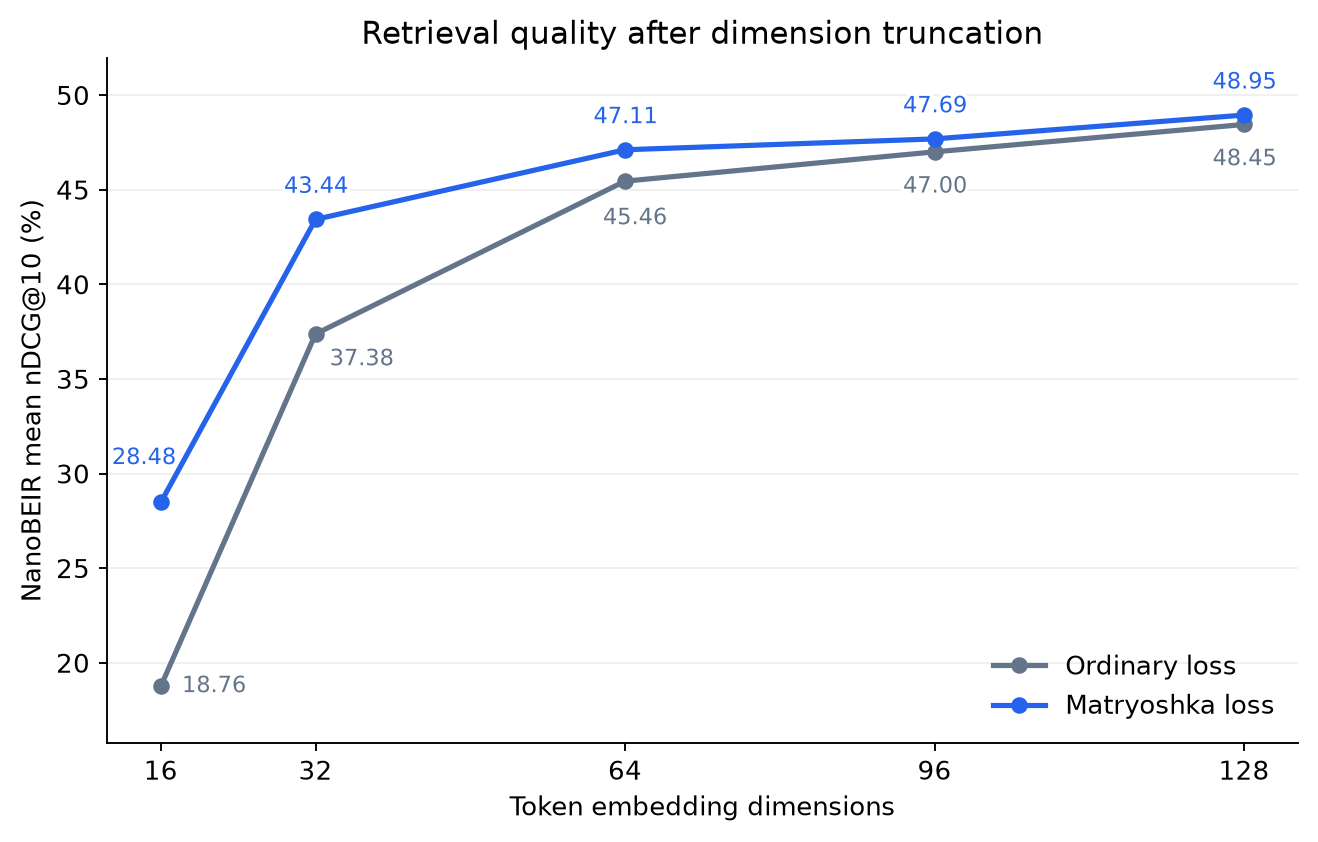
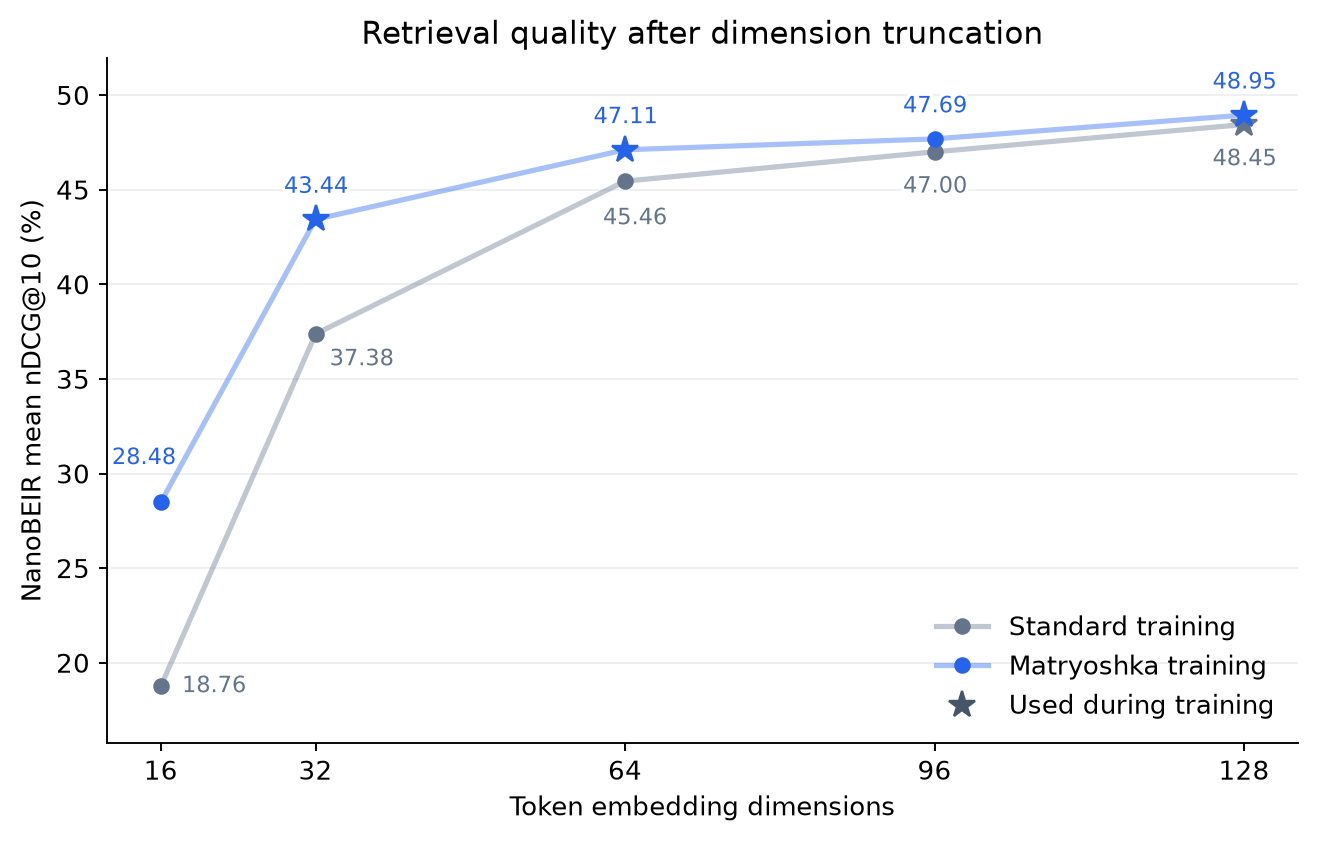
Use proportional pooling training and refine compression guides

diff --git a/examples/multi_vector_encoder/training/token_pooling/evaluate_token_pooling.py b/examples/multi_vector_encoder/training/token_pooling/evaluate_token_pooling.py
@@ -30,6 +30,11 @@ def main():
         "max_tokens_16": HierarchicalTokenPooling(max_tokens=16),
         "max_tokens_8": HierarchicalTokenPooling(max_tokens=8),
         "max_tokens_4": HierarchicalTokenPooling(max_tokens=4),
+        "pool_factor_2": HierarchicalTokenPooling(pool_factor=2),
+        "pool_factor_3": HierarchicalTokenPooling(pool_factor=3),
+        "pool_factor_4": HierarchicalTokenPooling(pool_factor=4),
+        "pool_factor_5": HierarchicalTokenPooling(pool_factor=5),
+        "pool_factor_6": HierarchicalTokenPooling(pool_factor=6),
     }
 
     scores = {}

diff --git a/examples/multi_vector_encoder/training/token_pooling/training_cached_contrastive.py b/examples/multi_vector_encoder/training/token_pooling/training_cached_contrastive.py
@@ -40,7 +40,7 @@ def main():
     dataset = dataset.select(range(num_train_samples + 1_000)).train_test_split(test_size=1_000, seed=42)
 
     # 3. Change only the loss for the baseline
-    pooling = HierarchicalTokenPooling(max_tokens=16)
+    pooling = HierarchicalTokenPooling(pool_factor=4)
     loss = CachedMultiVectorMultipleNegativesRankingLoss(model, mini_batch_size=64)
     if not cli.baseline:
         loss = MultiVectorTokenPoolingLoss(

diff --git a/examples/multi_vector_encoder/training/token_pooling/README.md b/examples/multi_vector_encoder/training/token_pooling/README.md
@@ -1,21 +1,73 @@
-# Token Pooling-aware Training
+# Token Pooling-Aware Training
 
-A multi-vector retrieval model can represent a long document with hundreds of token vectors, many of which describe similar content. Token pooling merges these vectors to make the document index smaller and reduce the number of comparisons needed for MaxSim scoring. Compression can also remove distinctions that matter for retrieval, so pooling-aware training teaches the encoder to preserve useful information when its document vectors are merged.
+Token pooling merges similar token vectors to make multi-vector retrieval indexes smaller. Pooling-aware training teaches the encoder to preserve useful information when these vectors are merged, helping compressed representations remain effective for retrieval.
 
-This example uses `HierarchicalTokenPooling`, which groups similar token embeddings with Ward clustering and replaces each cluster with its normalized mean. Unlike [Matryoshka truncation](../matryoshka/README.md), which reduces the dimensionality of every vector, token pooling reduces how many vectors represent a document. Queries remain unpooled by default, preserving their individual token vectors for matching against the compressed documents. The encoder still runs its full backbone, and clustering adds work during indexing, with the savings coming from storing and scoring fewer document vectors.
+See the [Token Pooling-Aware Training blogpost](https://huggingface.co/blog/token-pooling) for a fuller explanation of the method and experiments.
 
-## Training embeddings that pool well
+## Token Pooling
 
-Ordinary retrieval training optimizes the original token embeddings, without requiring them to remain useful after pooling. `MultiVectorTokenPoolingLoss` adds that requirement by applying a retrieval loss to the pooled representations during training. In [training_cached_contrastive.py](training_cached_contrastive.py), the same batch contributes both an unpooled retrieval loss and a loss using at most 16 vectors per document:
+`HierarchicalTokenPooling` groups similar token embeddings with Ward clustering and replaces each cluster with its normalized mean. Unlike [Matryoshka truncation](../matryoshka/README.md), which reduces each vector's dimensionality, pooling reduces the number of vectors. Queries remain unpooled by default. The encoder still runs its full backbone, with savings coming from storing and scoring fewer document vectors.
+
+### Choosing a Pooling Budget
+
+`HierarchicalTokenPooling` offers three alternative controls:
+
+| Control | Effect | When to use it |
+| --- | --- | --- |
+| `max_tokens=16` | Keep at most 16 vectors, including protected tokens.<br>Shorter documents keep their existing vectors. | You want a per-document cap. |
+| `pool_factor=4` | Keep approximately one quarter<br>of each document's vectors. | You want compression proportional<br>to document length. |
+| `distance_threshold` | Merge up to a shared Ward distance threshold.<br>Vector counts depend on embedding geometry. | You want adaptive compression.<br>Calibrate it for an average vector budget. |
+
+Configure one control at a time. By default, the first token is protected from merging, and all output vectors are normalized. Short documents can bring the average vector count below a fixed cap.
+
+### Calibrating Adaptive Pooling
+
+Adaptive pooling allocates vectors according to embedding geometry and can be useful without pooling-aware training. Rather than choosing a distance threshold manually, calibrate it for a target average vector count using a representative sample in `calibration_documents`:
 
 ```python
+from sentence_transformers import MultiVectorEncoder
+from sentence_transformers.multi_vector_encoder.modules import HierarchicalTokenPooling
+
+model = MultiVectorEncoder("lightonai/LateOn")
+calibration_embeddings = model.encode_document(calibration_documents)
+threshold = HierarchicalTokenPooling.calibrate_distance_threshold(calibration_embeddings, target_tokens=16)
+pooling = HierarchicalTokenPooling(distance_threshold=threshold)
+
+# Apply pooling, targeting an average of 16 vectors per document
+document_embeddings = model.encode_document(documents_to_index, token_pooling=pooling)
+```
+
+Calibration only needs document embeddings. Individual documents can receive more or fewer than 16 vectors, and the average can change on another corpus. Calibration returns `None` if the target requires no compression.
+
+<details>
+<summary>Matching the storage of a fixed cap</summary>
+
+For a fair comparison, target the fixed cap's actual average count, which may be below its maximum:
+
+```python
+fixed_embeddings = HierarchicalTokenPooling(max_tokens=16).pool(calibration_embeddings)
+target_tokens = sum(map(len, fixed_embeddings)) / len(fixed_embeddings)
+threshold = HierarchicalTokenPooling.calibrate_distance_threshold(calibration_embeddings, target_tokens=target_tokens)
+pooling = HierarchicalTokenPooling(distance_threshold=threshold)
+```
+
+The calibrated results below match each corpus's average counts under caps of 64, 32, and 16.
+</details>
+
+## Training
+
+[training_cached_contrastive.py](training_cached_contrastive.py) averages an ordinary retrieval loss and a loss using approximately one quarter of each document's vectors:
+
+```python
+from sentence_transformers import MultiVectorEncoder
 from sentence_transformers.multi_vector_encoder.losses import (
     CachedMultiVectorMultipleNegativesRankingLoss,
     MultiVectorTokenPoolingLoss,
 )
 from sentence_transformers.multi_vector_encoder.modules import HierarchicalTokenPooling
 
-pooling = HierarchicalTokenPooling(max_tokens=16)
+model = MultiVectorEncoder("answerdotai/ModernBERT-base")
+pooling = HierarchicalTokenPooling(pool_factor=4)
 loss = CachedMultiVectorMultipleNegativesRankingLoss(model, mini_batch_size=64)
 loss = MultiVectorTokenPoolingLoss(
     model,
@@ -25,138 +77,103 @@ loss = MultiVectorTokenPoolingLoss(
 )
 ```
 
-`CachedMultiVectorMultipleNegativesRankingLoss` supplies the retrieval objective, teaching each query to score its relevant document above the negative documents in the batch. Gradient caching lets the encoder process 64 inputs at a time while each query is compared with documents from all 256 training examples, reducing training memory without reducing the number of negatives.
+`CachedMultiVectorMultipleNegativesRankingLoss` teaches each query to score its relevant document above negatives. Gradient caching processes 64 inputs at a time while comparing each query with documents from all 256 training examples.
 
-`MultiVectorTokenPoolingLoss` wraps that objective and evaluates it using each entry in `token_poolings`. Here, `None` uses the original embeddings without pooling, while `pooling` compresses documents to at most 16 vectors. The weights of `0.5` simply average the two retrieval losses, teaching the encoder to support compressed retrieval alongside ordinary retrieval. The variants reuse the token embeddings without an additional encoder pass for each pooler, although clustering and computing the extra retrieval loss add some overhead.
+[`MultiVectorTokenPoolingLoss`](../../../../docs/package_reference/multi_vector_encoder/losses.html#multivectortokenpoolingloss) applies that objective to each entry in `token_poolings`. Here, `None` uses the original embeddings and `pooling` supplies the factor-4 variant. The weights average their losses. Variants reuse the encoder's embeddings, adding clustering and scoring work without a separate encoder pass per pooler.
 
-The entries in `token_poolings` can also be custom `BaseTokenPooling` implementations, provided they preserve gradients through the input embeddings. With `HierarchicalTokenPooling`, Ward clustering makes discrete choices about which tokens to merge. During training, it uses a straight-through estimator to pass gradients back to the token embeddings without differentiating those cluster assignments. Each cluster member receives the gradient through its pooled representation, allowing the encoder to learn from errors made with compressed documents.
+Custom `BaseTokenPooling` implementations can be used if they preserve gradients through the input embeddings. `HierarchicalTokenPooling` uses a straight-through estimator to pass gradients back to cluster members without differentiating Ward's discrete assignments.
 
-The example script learns retrieval and poolability together from MS MARCO triplets, starting with `answerdotai/ModernBERT-base` and a fresh 128-dimensional token projection. The same loss wrapper can also fine-tune an existing retrieval model. Setting `query_expansion={"strategy": "min", "length": 32}` provides additional contextual query vectors by expanding short queries to at least 32 token positions, while longer queries retain their length up to the training token cap. To optimize for another deployment constraint, replace the 16-vector pooler with your chosen pooler, e.g. a `HierarchicalTokenPooling` with a different `max_tokens`, `pool_factor`, or `distance_threshold` setting.
+The script starts from `answerdotai/ModernBERT-base` with a fresh 128-dimensional projection. Short queries are expanded to at least 32 token positions to provide additional contextual query vectors. You can also fine-tune an existing retrieval model or replace the factor-4 pooler with your deployment configuration.
 
-Run the training script with and without `--baseline` to compare the effect of pooling-aware training:
+Run both variants for a matched comparison:
 
 ```bash
 python -m examples.multi_vector_encoder.training.token_pooling.training_cached_contrastive --baseline
 python -m examples.multi_vector_encoder.training.token_pooling.training_cached_contrastive
 ```
 
-Both commands use the same initialization, data, and optimization settings, with `--baseline` changing only the loss. Small MS MARCO NanoBEIR evaluations track unpooled and 16-vector retrieval alongside held-out validation loss, helping you check whether the compressed representations are learning to retrieve. You can adapt the model, poolers, and training settings directly in the script, keeping both runs matched when comparing losses. It saves the encoder under `models/<run_name>/final` and attempts a Hub upload using your `hf auth login` credentials.
+`--baseline` changes only the loss, keeping initialization, data, and optimization settings matched. MS MARCO NanoBEIR evaluations track unpooled and factor-4 retrieval alongside validation loss during training. Edit the script to adapt the setup. It saves the final encoder and attempts a Hub upload using your `hf auth login` credentials.
 
-## Applying token pooling
+## Using the Trained Model
 
-Load the example model from the Hub or your own saved encoder, then pass the pooler when encoding documents:
+Pass the pooler when encoding documents:
 
 ```python
 from sentence_transformers import MultiVectorEncoder
 from sentence_transformers.multi_vector_encoder.modules import HierarchicalTokenPooling
 
 model = MultiVectorEncoder("tomaarsen/mve-ModernBERT-base-token-pooling")
-pooling = HierarchicalTokenPooling(max_tokens=16)
+pooling = HierarchicalTokenPooling(pool_factor=4)
 
-query_embeddings = model.encode_query(["How can I make a retrieval index smaller?"])
-document_embeddings = model.encode_document(
-    [
-        "Token pooling merges similar token embeddings into fewer vectors, reducing document index storage.",
-        "Paris is the capital of France.",
-    ],
-    token_pooling=pooling,
-)
-scores = model.similarity(query_embeddings, document_embeddings)
-print(scores)
+queries = ["Which planet is known as the Red Planet?"]
+documents = [
+    "Venus is often called Earth's twin because of its similar size and proximity.",
+    "Mars, known for its reddish appearance, is often referred to as the Red Planet.",
+    "Jupiter, the largest planet in our solar system, has a prominent red spot.",
+]
+
+query_embeddings = model.encode_query(queries)
+document_embeddings = model.encode_document(documents, token_pooling=pooling)
+
+print([len(embedding) for embedding in document_embeddings])
+# [5, 6, 5]
+print(model.similarity(query_embeddings, document_embeddings))
+# tensor([[16.0037, 25.9879, 22.8159]], device='cuda:0')
+
+# For comparison, the same model without token pooling:
+# [18, 21, 19]
+# tensor([[16.6115, 27.6060, 24.1766]], device='cuda:0')
 ```
 
-The loss teaches the encoder to work with pooled embeddings, while `token_pooling` selects the compression applied at inference. Saving the encoder does not automatically enable the poolers used in its training loss. Apply the same pooling configuration when building the document index that you evaluated for deployment.
+Pooling reduces the total from 58 vectors to 16 while preserving the ranking: Mars scores highest, followed by Jupiter and Venus. Query embeddings remain unchanged.
 
-To use a pooler by default, pass it when initializing the encoder:
+You can change the pooling configuration at inference. For repeated use, pass `token_pooling=pooling` to the `MultiVectorEncoder` constructor to make it the runtime default, with the pooler's `tasks` controlling which inputs are compressed.
 
-```python
-model = MultiVectorEncoder("tomaarsen/mve-ModernBERT-base-token-pooling", token_pooling=pooling)
-```
+## Evaluation Results
 
-Calls to `encode`, `encode_query`, and `encode_document` then use this default, with the pooler's `tasks` still deciding which inputs are pooled. Pass another pooler to override it for a call, or set `model.token_pooling = None` to clear the default. To save pooling as part of the model, add the pooler to its module pipeline instead.
-
-With `HierarchicalTokenPooling`, choose one of the three pooling controls according to the constraint you want to express:
-
-| Control | Effect | When to use it |
-| --- | --- | --- |
-| `max_tokens=16` | Keep at most 16 vectors, including protected tokens.<br>Shorter documents keep their existing vectors. | You want a per-document cap. |
-| `pool_factor=4` | Keep approximately one quarter<br>of each document's vectors. | You want compression proportional<br>to document length. |
-| `distance_threshold` | Merge up to a shared Ward distance threshold.<br>Vector counts depend on embedding geometry. | You want adaptive compression.<br>Calibrate it for an average vector budget. |
-
-These controls are alternatives, so configure one at a time. By default, the first token is protected from merging, and all output vectors are normalized. A cap of 16 can therefore average fewer than 16 vectors per document because shorter documents already fit within the budget.
-
-## Measuring the quality and storage tradeoff
-
-[evaluate_token_pooling.py](evaluate_token_pooling.py) compares unpooled retrieval with document caps of 64, 32, 16, 8, and 4 vectors on all 13 NanoBEIR datasets. Running it on any multi-vector embedding model shows how much quality is retained at the compression you intend to deploy, and you can edit the poolers and evaluation settings to suit your model and use case. For example, compare the pooling-aware model with its baseline:
+[evaluate_token_pooling.py](evaluate_token_pooling.py) evaluates any multi-vector model on all 13 NanoBEIR datasets, using unpooled retrieval, caps of 64, 32, 16, 8, and 4 vectors, and pool factors of 2 through 6. Edit the settings to explore your deployment budget:
 
 ```bash
 python -m examples.multi_vector_encoder.training.token_pooling.evaluate_token_pooling tomaarsen/mve-ModernBERT-base-token-pooling
 python -m examples.multi_vector_encoder.training.token_pooling.evaluate_token_pooling tomaarsen/mve-ModernBERT-base-token-pooling-baseline
 ```
 
-The comparison below uses matched training on 120,000 MS MARCO triplets with seed 42 and the final checkpoints. Scores are mean nDCG@10 (%) across the 13 NanoBEIR datasets, with FP32 inference and storage compared at unchanged embedding dimensionality and numeric precision. Mean vectors is the average number of document vectors across the evaluation corpora.
+Both models below were trained on the same 120,000 MS MARCO triplets with seed 42, changing only the loss. Scores are mean nDCG@10 (%) with FP32 inference. Mean vectors is the average number of document vectors across the evaluation corpora, at unchanged dimensionality and precision.
 
-| Pooling at inference | Mean vectors | Ordinary loss | Pooling-aware loss | Gain (points) |
+| Pooling at inference | Mean vectors | Ordinary model | Pooling-aware model | Gain (points) |
 | --- | ---: | ---: | ---: | ---: |
-| Unpooled | 193.22 | 51.84 | 52.04 | +0.19 |
-| `max_tokens=64` | 54.76 | 49.27 | 51.34 | +2.07 |
-| `max_tokens=32` | 29.58 | 48.25 | 50.69 | +2.44 |
-| `max_tokens=16` | 15.60 | 46.61 | 49.87 | +3.26 |
-| `max_tokens=8` | 7.99 | 43.12 | 47.42 | +4.30 |
-| `max_tokens=4` | 4.00 | 37.22 | 45.40 | +8.18 |
-| `pool_factor=4` | 48.68 | 49.03 | 51.61 | +2.58 |
-| Calibrated `distance_threshold` | 15.60 | 47.23 | 50.19 | +2.96 |
+| Unpooled | 193.22 | 51.84 | 52.39 | +0.55 |
+| `pool_factor=2` | 96.86 | 50.10 | 51.74 | +1.64 |
+| `pool_factor=3` | 64.74 | 49.70 | 51.45 | +1.76 |
+| `pool_factor=4` | 48.68 | 49.03 | 51.23 | +2.20 |
+| `pool_factor=5` | 39.04 | 48.13 | 50.28 | +2.15 |
+| `pool_factor=6` | 32.62 | 47.07 | 49.85 | +2.78 |
+| `max_tokens=64` | 54.76 | 49.27 | 50.89 | +1.63 |
+| `max_tokens=32` | 29.58 | 48.25 | 50.12 | +1.87 |
+| `max_tokens=16` | 15.60 | 46.61 | 49.26 | +2.65 |
+| `max_tokens=8` | 7.99 | 43.12 | 46.61 | +3.48 |
+| `max_tokens=4` | 4.00 | 37.22 | 43.00 | +5.78 |
+| `distance_threshold` (calibrated) | 54.76 | 50.10 | 51.24 | +1.14 |
+| `distance_threshold` (calibrated) | 29.58 | 48.38 | 50.96 | +2.58 |
+| `distance_threshold` (calibrated) | 15.60 | 47.23 | 49.63 | +2.41 |
 
-![Retrieval quality versus document vector storage](results.png)
+![Ordinary versus pooling-aware training with proportional token pooling](results.png)
 
-At the trained 16-vector cap, pooling-aware training improves retrieval from 46.61 to 49.87 while reducing document vector storage by 12.4x relative to unpooled retrieval. The pooling-aware encoder at 8 vectors also outperforms the ordinary encoder at 16 vectors, illustrating how training can make a smaller index more useful. Training covered unpooled retrieval and the 16-vector cap, while the other settings show how well the learned embeddings transfer to compression settings they were not explicitly trained for. The figure and evaluation script cover the fixed caps, with the table also including proportional and adaptive pooling.
+At the trained `pool_factor=4`, pooling-aware training improves nDCG@10 from 49.03 to 51.23 with a 4-fold reduction in document vectors relative to unpooled retrieval. Score retention rises from 94.6% to 97.8%, measured against each model's own unpooled mean nDCG@10.
 
-The calibrated row uses one shared `distance_threshold` per encoder and NanoBEIR corpus, chosen from that corpus's unpooled document embeddings to match the average vector count under `max_tokens=16`. Documents can receive more or fewer than 16 vectors, while using approximately the same average storage. The next section shows how to choose this threshold without relevance labels or additional training.
+The gains transfer to other settings. Adaptive pooling at 29.58 vectors per document retains 97.3% of the pooling-aware model's unpooled score while storing 84.7% fewer vectors. Each calibrated threshold is shared across its corpus and matches the average storage of the corresponding fixed cap.
 
-MS MARCO, Natural Questions, and FiQA were used for recipe development, and the full suite also informed exploratory experiments. These are therefore exploratory results on a small benchmark. A separate check with the trained models used official test queries outside NanoBEIR and each dataset's full corpus, retaining graded relevance. Both comparisons below use the 16-vector cap and the same seed-42 models:
+These are illustrative models with room for stronger training recipes, as the `MultiVectorTokenPoolingLoss` loss wrapper can wrap any multi-vector loss.
 
-| Additional queries | Queries | Ordinary loss | Pooling-aware loss | Gain (points) |
-| --- | ---: | ---: | ---: | ---: |
-| [SciFact](https://huggingface.co/datasets/BeIR/scifact) | 250 | 59.48 | 60.73 | +1.25 |
-| [NFCorpus](https://huggingface.co/datasets/BeIR/nfcorpus) | 273 | 26.12 | 26.96 | +0.83 |
+## Combining Compression Techniques
 
-## Calibrating adaptive pooling
+For smaller indexes, consider these options in this order:
 
-A fixed cap like `max_tokens` allocates the same maximum number of vectors to every document, even when some documents contain many similar token embeddings and others contain more distinct information. Adaptive pooling instead uses a shared `distance_threshold` to decide when to stop merging. Documents whose embeddings can be merged at smaller Ward distances receive fewer vectors, while those requiring larger merge distances retain more. This differs from `pool_factor`, which reduces the vector count according to document length.
+1. Quantization to 4, 2, or 1 bit, for example via [Fast-PLAID](https://github.com/lightonai/fast-plaid).
+2. Token pooling, optionally with pooling-aware fine-tuning.
+3. [Matryoshka token embeddings](../matryoshka/README.md), optionally with fine-tuning, to reduce each vector's dimensionality.
 
-The storage produced by a threshold depends on the encoder and its document embeddings, so calibration translates an average vector budget into a suitable threshold. Encode a representative sample of your documents without pooling, then use `HierarchicalTokenPooling.calibrate_distance_threshold` to choose a threshold targeting an average of 16 vectors per document:
-
-```python
-# Assumes the model was loaded without a token_pooling parameter
-calibration_embeddings = model.encode_document(calibration_documents)
-threshold = HierarchicalTokenPooling.calibrate_distance_threshold(calibration_embeddings, target_tokens=16)
-print(threshold)
-# e.g. 0.2843...
-pooling = HierarchicalTokenPooling(distance_threshold=threshold)
-document_embeddings = model.encode_document(documents_to_index, token_pooling=pooling)
-```
-
-Calibration uses only document embeddings to choose a threshold you can reuse in your pooling configuration. If no compression is needed to meet the budget, it returns `None`. Individual documents can exceed the average budget, and the achieved average can change on a different corpus, so evaluate the calibrated pooler on the documents you expect to index.
-
-<details>
-<summary>Matching the average storage of a fixed cap for a fair comparison</summary>
-
-A cap of `max_tokens=16` often averages fewer than 16 vectors because short documents already contain fewer vectors. To compare adaptive pooling at the same average storage, first measure the fixed cap's output on the calibration documents, then use that average as the calibration target:
-
-```python
-fixed_embeddings = HierarchicalTokenPooling(max_tokens=16).pool(calibration_embeddings)
-target_tokens = sum(map(len, fixed_embeddings)) / len(fixed_embeddings)  # e.g. 15.6
-threshold = HierarchicalTokenPooling.calibrate_distance_threshold(calibration_embeddings, target_tokens=target_tokens)
-pooling = HierarchicalTokenPooling(distance_threshold=threshold)
-```
-
-This is how the calibrated row in the results table was measured, targeting 15.60 vectors overall. Those measurements use each dataset's complete corpus for calibration, while a representative sample can be used for your own index.
-</details>
-<br>
-
-## Combining compression methods
-
-Token pooling reduces the number of document vectors, while [Matryoshka training](../matryoshka/README.md) reduces their dimensionality and index quantization reduces the bits stored per coordinate. These choices address different parts of index storage and can be combined. Measure retrieval quality with the combination you intend to deploy, since each compression step can discard information needed to distinguish relevant documents.
+For models with more than 128 dimensions, consider Matryoshka truncation and fine-tuning earlier. Wrap `MultiVectorMatryoshkaLoss` with `MultiVectorTokenPoolingLoss` to train for both smaller dimensions and fewer vectors, reusing encoder embeddings. Just be sure to evaluate the final combination with your search engine and corpus.
 
 ## References
 

diff --git a/examples/multi_vector_encoder/training/matryoshka/README.md b/examples/multi_vector_encoder/training/matryoshka/README.md
@@ -4,18 +4,22 @@ In a multi-vector retrieval index, reducing each token embedding from 128 to 32 
 
 Truncation keeps one embedding per token (unlike [token pooling](../token_pooling/README.md)) while reducing the dimensionality of every query and document vector. The encoder still runs its full backbone, with the smaller representations reducing embedding storage and the dimension of the dot products used in MaxSim scoring.
 
-## Training useful embedding prefixes
+In my experience, token pooling preserves retrieval quality better at a similar reduction in vector storage, so try it before dimensionality reduction. If your token embeddings have much more than 128 dimensions, Matryoshka truncation may be a useful starting point though.
 
-Ordinary retrieval training optimizes the full embedding, allowing useful information to spread across all of its dimensions. Simply discarding the last dimensions can therefore remove information needed to distinguish relevant documents from negatives. `MultiVectorMatryoshkaLoss` addresses this by evaluating the retrieval loss at several embedding widths during training, truncating and normalizing each query and document token vector before computing MaxSim scores.
+## Training
+
+Ordinary retrieval training optimizes the full embedding, allowing useful information to spread across all of its dimensions. Simply discarding the last dimensions can therefore remove information needed to distinguish relevant documents from negatives. [`MultiVectorMatryoshkaLoss`](../../../../docs/package_reference/multi_vector_encoder/losses.html#multivectormatryoshkaloss) addresses this by evaluating the retrieval loss at several embedding widths during training, truncating and normalizing each query and document token vector before computing MaxSim scores.
 
 In [training_cached_contrastive.py](training_cached_contrastive.py), the same batch contributes losses at 128, 64, and 32 dimensions, so the encoder learns to support all three widths jointly:
 
 ```python
+from sentence_transformers import MultiVectorEncoder
 from sentence_transformers.multi_vector_encoder.losses import (
     CachedMultiVectorMultipleNegativesRankingLoss,
     MultiVectorMatryoshkaLoss,
 )
 
+model = MultiVectorEncoder("answerdotai/ModernBERT-base")
 loss = CachedMultiVectorMultipleNegativesRankingLoss(model, mini_batch_size=8)
 loss = MultiVectorMatryoshkaLoss(
     model,
@@ -40,7 +44,7 @@ python -m examples.multi_vector_encoder.training.matryoshka.training_cached_cont
 
 Both commands use the same initialization, data, and optimization settings, with `--baseline` changing only the loss. Small MS MARCO NanoBEIR evaluations track full and 32-dimensional retrieval alongside held-out validation loss, helping you check whether the shorter prefix is learning to retrieve. You can adapt the model, dimensions, and training settings directly in the script, keeping both runs matched when comparing losses. It saves the encoder under `models/<run_name>/final` and attempts a Hub upload using your `hf auth login` credentials.
 
-## Applying Matryoshka-style truncation
+## Applying Matryoshka-Style Truncation
 
 Choose the embedding width when encoding queries and documents, using the example model from the Hub or the path to your own saved encoder:
 
@@ -67,7 +71,7 @@ Passing `truncate_dim=32` to `encode`, `encode_query`, or `encode_document` keep
 
 You can also initialize `MultiVectorEncoder` with `truncate_dim=32` to use that width by default. An explicit `truncate_dim` on an encode call overrides the model default, and saving the model preserves the default for subsequent loads.
 
-## Measuring the quality and storage tradeoff
+## Evaluation Results
 
 [evaluate_matryoshka.py](evaluate_matryoshka.py) compares full embeddings with 96, 64, 32, and 16 dimensions on all 13 NanoBEIR datasets. Running it on any multi-vector embedding model shows how much quality is retained at the width you intend to deploy, and you can edit the dimensions and evaluation settings to suit your model and use case. For example, you can compare the Matryoshka model with its baseline:
 
@@ -78,7 +82,7 @@ python -m examples.multi_vector_encoder.training.matryoshka.evaluate_matryoshka 
 
 The comparison below uses matched training on 30,000 MS MARCO triplets with seed 42 and the final checkpoints. Scores are mean nDCG@10 (%) across the 13 NanoBEIR datasets, with storage measured at unchanged numeric precision and excluding other index structures.
 
-| Dimensions | Vector storage | Ordinary loss | Matryoshka loss | Gain (points) |
+| Dimensions | Vector storage | Ordinary model | Matryoshka model | Gain (points) |
 | --- | --- | --- | --- | --- |
 | 128 | 100.0% | 48.45 | 48.95 | +0.50 |
 | 96 | 75.0% | 47.00 | 47.69 | +0.68 |
@@ -88,20 +92,24 @@ The comparison below uses matched training on 30,000 MS MARCO triplets with seed
 
 ![Quality versus embedding storage](results.png)
 
-At 32 dimensions, Matryoshka improves retrieval from 37.38 to 43.44 while keeping full-width quality similar, showing why training the shorter prefixes matters. Training covered 128, 64, and 32 dimensions, while the evaluations at 16 and 96 dimensions show how well the model generalizes to widths it was not explicitly trained for.
+At 32 dimensions, Matryoshka improves retrieval from 37.38 to 43.44 while using one quarter of the vector storage. This retains 88.7% of the model's full-width nDCG@10, compared with 77.2% for the baseline, with each retention measured against that model's own full-width score. Training covered 128, 64, and 32 dimensions, while the evaluations at 16 and 96 dimensions show how well the model generalizes to widths it was not explicitly trained for.
 
-## Choosing how to reduce index memory
+## Combining Compression Techniques
 
-Embedding storage depends on the number of document vectors, their dimensionality, and the precision of each coordinate. When memory is the main constraint, index-level quantization can be a less lossy starting point than aggressive dimension truncation. [Fast-PLAID](https://github.com/lightonai/fast-plaid) supports 2 or 4 bits per residual coordinate while retaining the full embedding width, and [ColBERTv2's compression experiments](https://arxiv.org/html/2112.01488v3) demonstrate how well 2-bit residual compression can preserve retrieval quality.
+For smaller indexes, consider these options in this order:
 
-[Token pooling](../token_pooling/README.md) is another promising option because it reduces how many document vectors must be stored and compared during MaxSim scoring. Quantization, dimension truncation, and token pooling act on different parts of the storage cost and can be combined, so evaluate their quality and memory tradeoffs with the search index you intend to deploy.
+1. Quantization to 4, 2, or 1 bit, for example via [Fast-PLAID](https://github.com/lightonai/fast-plaid).
+2. [Token pooling](../token_pooling/README.md) to reduce the number of document vectors, optionally with pooling-aware fine-tuning.
+3. Matryoshka truncation, optionally with fine-tuning, to reduce each vector's dimensionality.
+
+For models with much more than 128 dimensions, consider Matryoshka truncation and fine-tuning earlier. Wrap `MultiVectorMatryoshkaLoss` with `MultiVectorTokenPoolingLoss` to train for both smaller dimensions and fewer vectors, reusing encoder embeddings. Evaluate the final combination with your search engine and corpus.
 
 ## References
 
 - [Matryoshka Representation Learning](https://huggingface.co/papers/2205.13147)
 - [MultiVectorMatryoshkaLoss API](../../../../docs/package_reference/multi_vector_encoder/losses.html#multivectormatryoshkaloss)
 
-## See also
+## See Also
 
 - [Token Pooling](../token_pooling/README.md)
 - [Dense Matryoshka Embeddings](../../../sentence_transformer/training/matryoshka/README.md)
